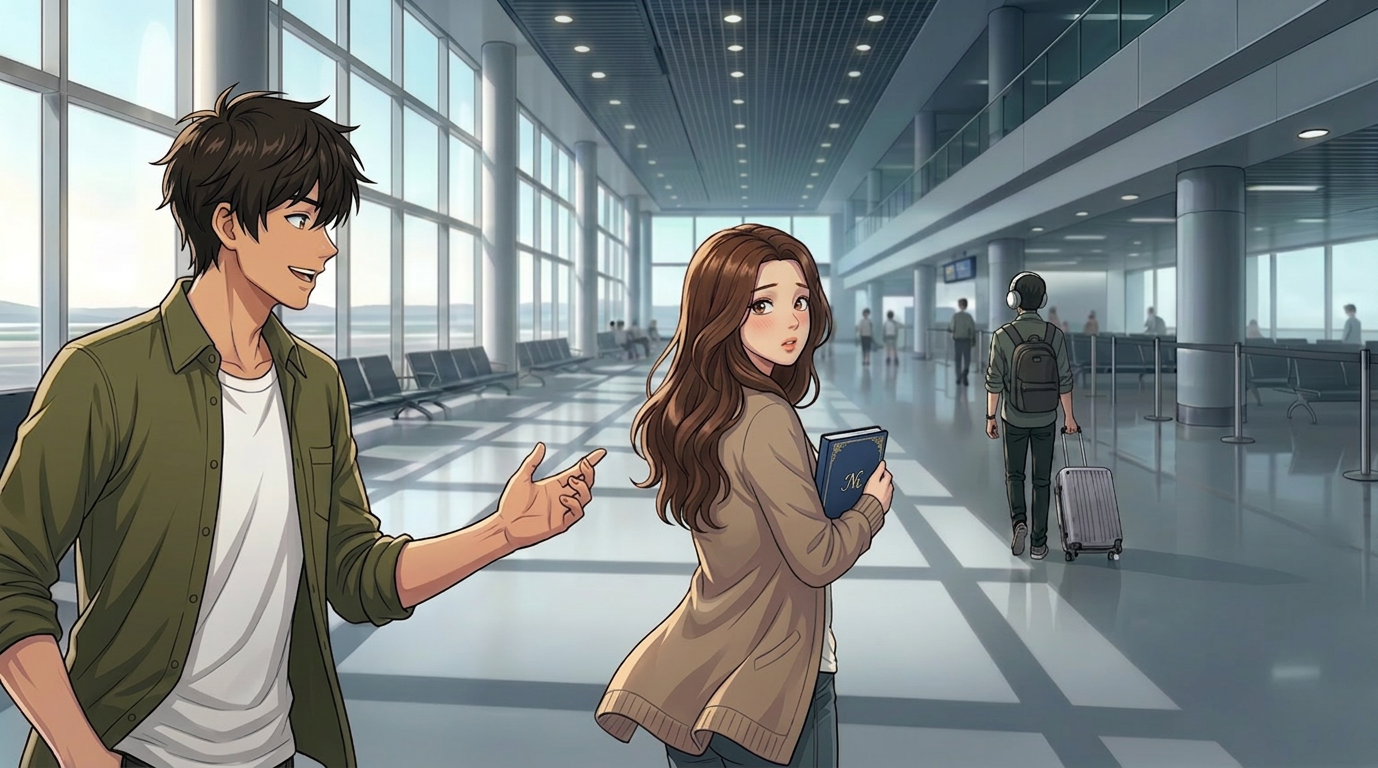
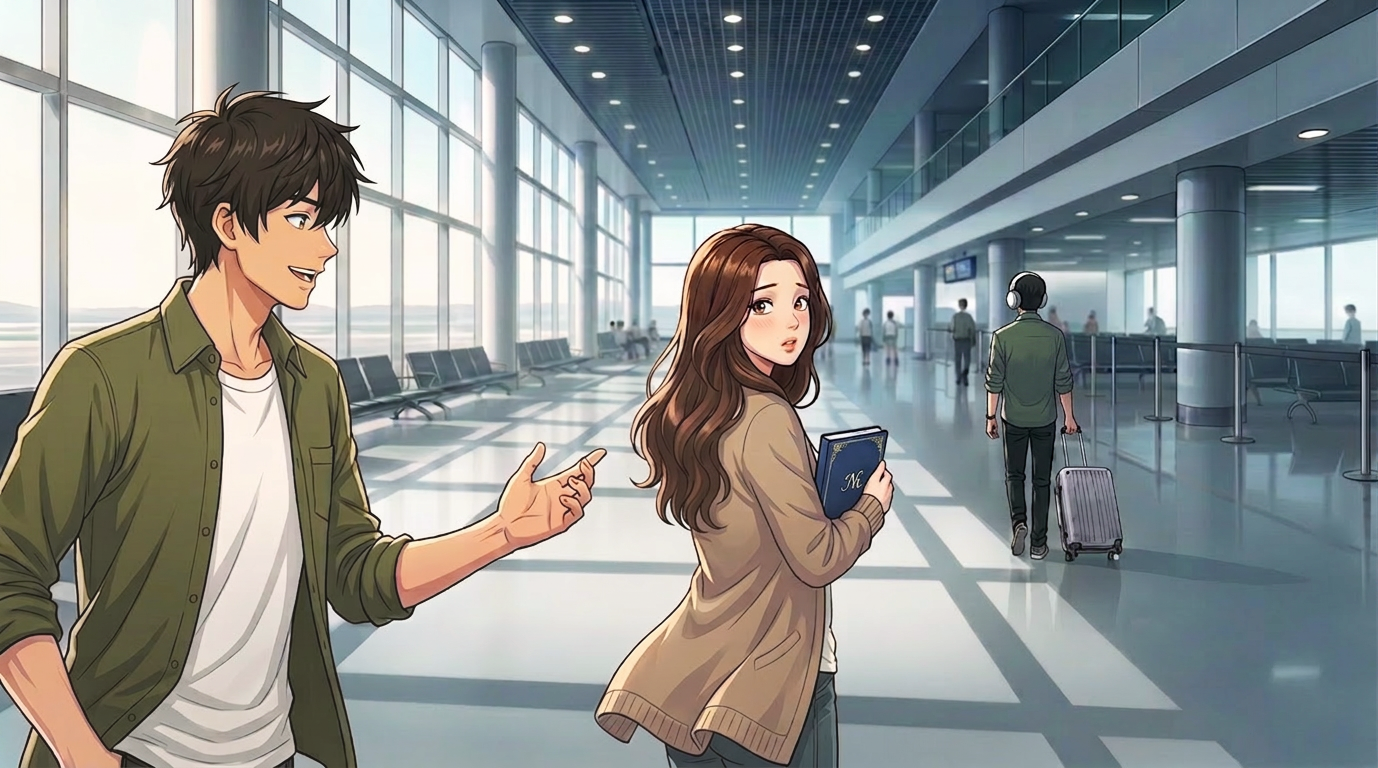
assets: replace lesson1/5 CG images with new versions
- lesson1_airport.png updated (new art)
- lesson1_airport_card.jpg → lesson1_airport_card.png (format change)
- Update index.html cardImage reference from .jpg to .png
- lesson5_dorm.png already in place

diff --git a/public/index.html b/public/index.html
@@ -5140,7 +5140,7 @@
         titleZh: "第一课：机场相遇", titleEn: "Lesson 1: Encounter at the Airport",
         newChars: ['nora', 'mingxuan'],
         cgImage:   '/assets/cg/lesson1_airport.png?v=20260505',      // 完整CG（带角色）→ 故事CG + 全屏背景模糊
-        cardImage: '/assets/cg/lesson1_airport_card.jpg?v=20260505', // 空镜切片 → 章节卡片缩略图
+        cardImage: '/assets/cg/lesson1_airport_card.png?v=20260507', // 空镜切片 → 章节卡片缩略图
         coverScene: {
           zh: 'Nora 刚抵达机场，找不到接机人，<br>只好向路人询问去市区的路线。',
           en: "Nora has just arrived at the airport and can't find her pickup, so she asks a passerby for directions to the city center."
